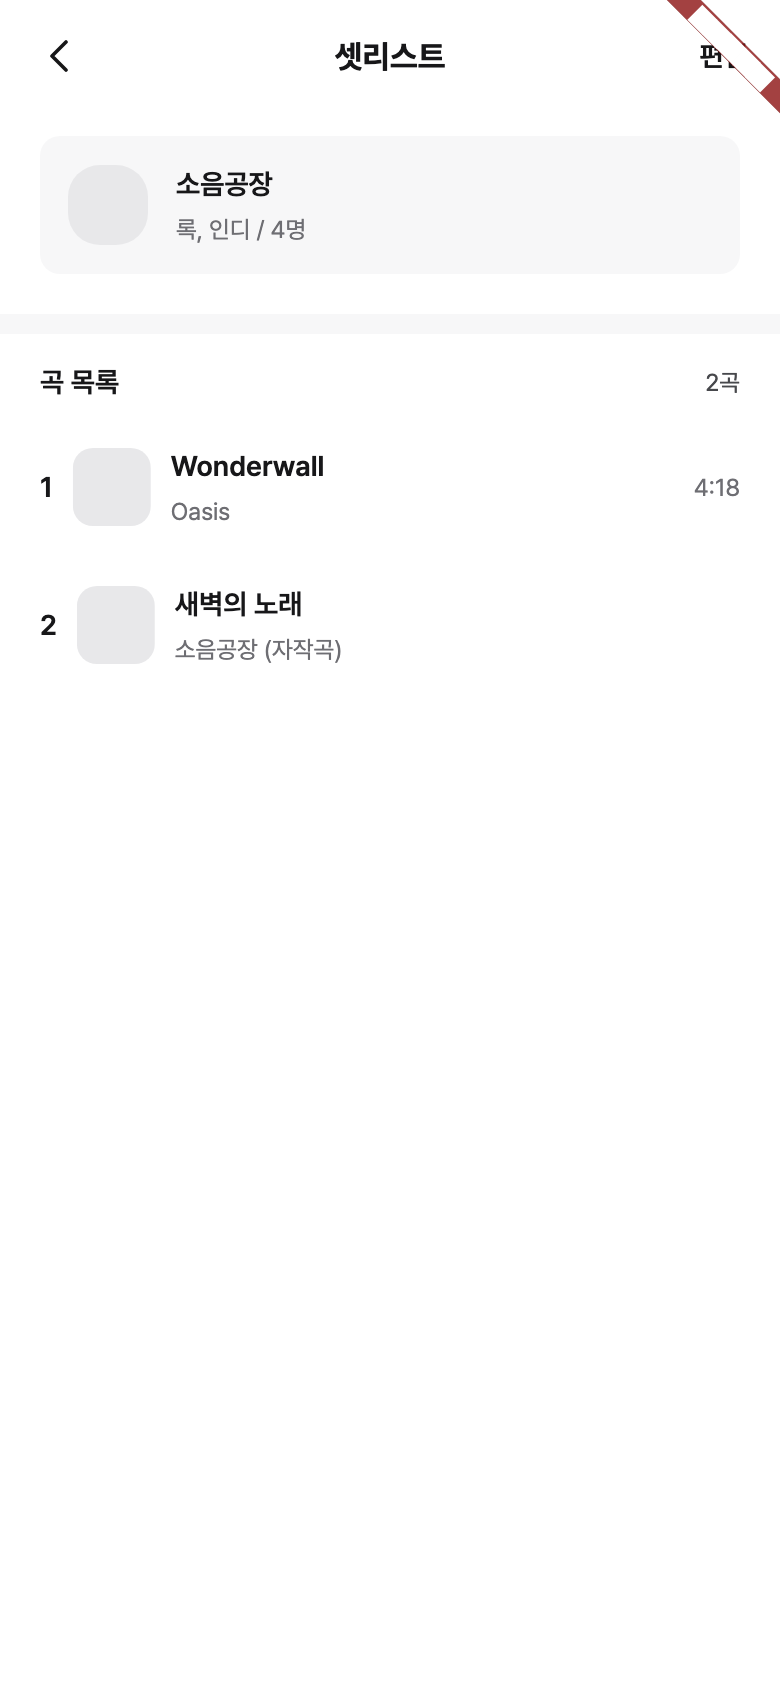
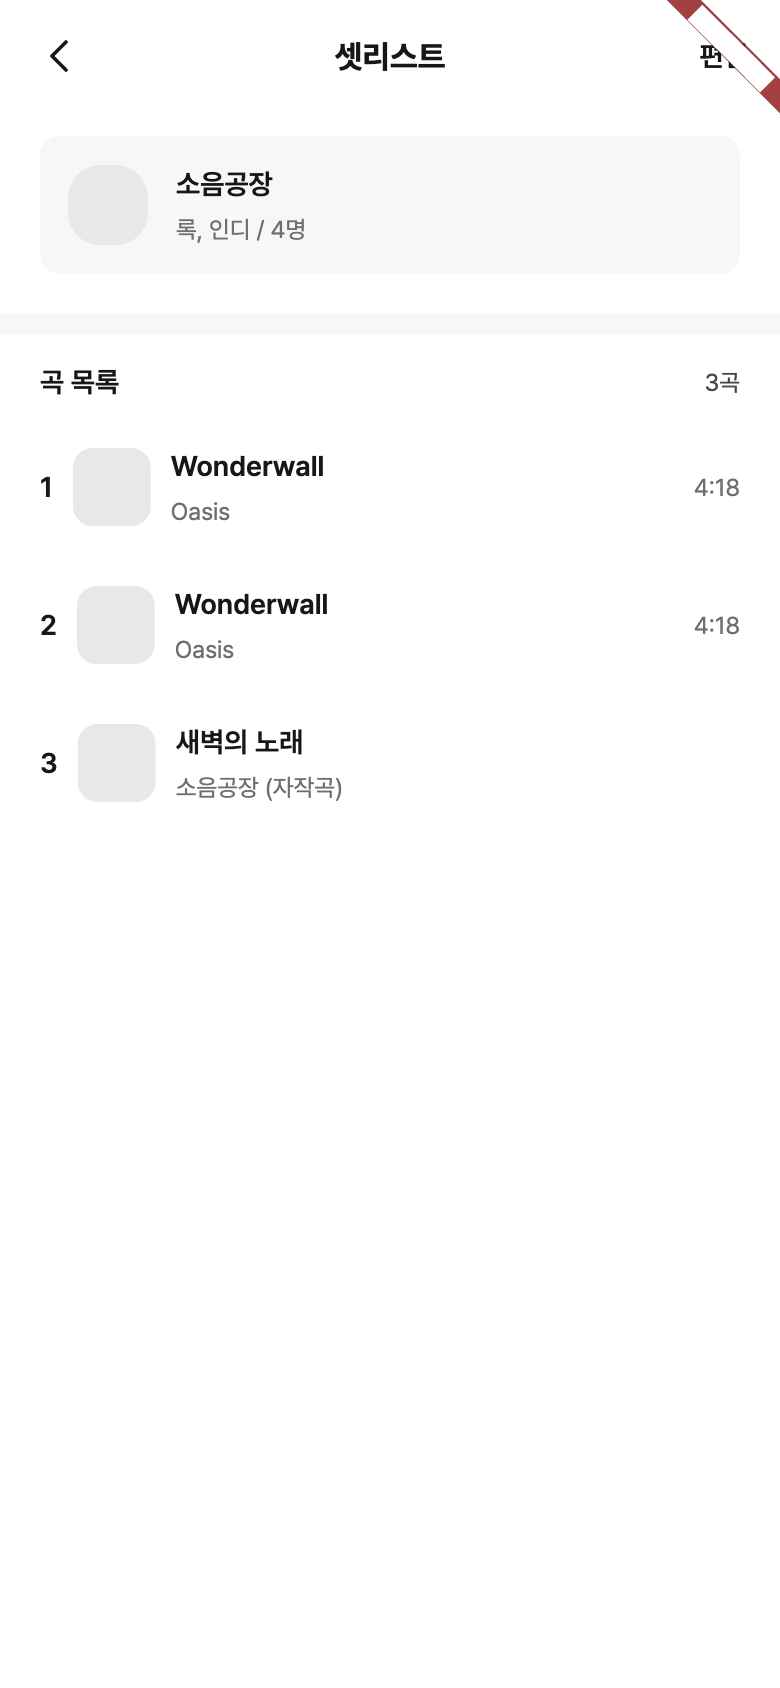
fix(JECT-165): 같은 곡 반복 추가와 화면 읽기 편집 동작을 지원한다

Changed region(s): [[0.2154, 0.3389, 0.4308, 0.4005], [0.2154, 0.4313, 0.4308, 0.4929], [0.0615, 0.4313, 0.0923, 0.4621]]

diff --git a/apps/mobile/test/app/lineup_routes_test.dart b/apps/mobile/test/app/lineup_routes_test.dart
@@ -1,6 +1,7 @@
 import 'dart:io';
 import 'dart:ui' as ui;
 
+import 'package:flutter/gestures.dart' show kLongPressTimeout;
 import 'package:flutter/material.dart';
 import 'package:flutter/rendering.dart';
 import 'package:flutter/services.dart';
@@ -148,12 +149,21 @@ void main() {
     }
 
     final repo = container.read(lineupRepositoryProvider);
+    await tap('lineup_position_1');
+    await _capture(tester, 'position');
+    await tap('lineupSlot_picker');
+    await tap('lineupSlot_option_3');
+    await _capture(tester, 'picker');
+    await tap('lineupSlot_load');
+    await _capture(tester, 'selection');
+    await tap('lineupSlot_back');
+    expect((await repo.getLineup(1)).teams.first.band.bandId, 3);
     final handle = key('lineup_dragHandle_3');
     final distance =
         tester.getCenter(key('lineup_dragHandle_7')).dy -
         tester.getCenter(handle).dy;
     final drag = await tester.startGesture(tester.getCenter(handle));
-    await tester.pump();
+    await tester.pump(kLongPressTimeout);
     for (var step = 0; step < 10; step++) {
       await drag.moveBy(Offset(0, (distance + 12) / 10));
       await tester.pump();
@@ -176,6 +186,13 @@ void main() {
     await tester.pumpAndSettle();
     await _capture(tester, 'search');
     await tap('songAdd_resultAdd_0');
+    final again = tester.getSemantics(key('songAdd_resultAdd_0'));
+    expect(again.getSemanticsData().hasAction(ui.SemanticsAction.tap), isTrue);
+    tester.binding.pipelineOwner.semanticsOwner!.performAction(
+      again.id,
+      ui.SemanticsAction.tap,
+    );
+    await tester.pumpAndSettle();
     await tester.enterText(field, '새벽의 노래');
     tester.view.physicalSize = const Size(320, 680);
     tester.view.viewInsets = const FakeViewPadding(bottom: 260);
@@ -194,6 +211,7 @@ void main() {
     expect((await repo.getSetlist(1, 3)).songs, isEmpty);
     await tap('setlist_done');
     expect((await repo.getSetlist(1, 3)).songs.map((s) => s.songTitle), [
+      'Wonderwall',
       'Wonderwall',
       '새벽의 노래',
     ]);

diff --git a/apps/mobile/lib/features/lineup/presentation/widgets/song_add_sheet.dart b/apps/mobile/lib/features/lineup/presentation/widgets/song_add_sheet.dart
@@ -232,7 +232,7 @@ class _SearchNotice extends StatelessWidget {
 ///
 /// 공통 `AppTag`보다 글자(12)·여백(6·12)이 커서 여기서 그린다. 다크 시안의 보라(추가)·회색(추가됨)은
 /// 밝은 테마에서 라인업 "주최" 태그와 같은 진한 태그 · 회색 태그로 옮겼다.
-/// "추가됨"은 편집 목록에 이미 있다는 표시라 누를 수 없다 (자작곡·불러온 목록의 같은 곡은 그대로 둔다).
+/// "추가됨"은 포함 여부만 알린다. 같은 검색 곡도 반복 연주할 수 있다.
 class _AddTag extends StatelessWidget {
   const _AddTag({super.key, required this.added, required this.onTap});
 
@@ -250,12 +250,12 @@ class _AddTag extends StatelessWidget {
     final label = added ? '추가됨' : '추가';
     return Semantics(
       button: true,
-      enabled: !added,
-      label: label,
+      label: added ? '한 번 더 추가' : label,
+      onTap: onTap,
       excludeSemantics: true,
       child: GestureDetector(
         behavior: HitTestBehavior.opaque,
-        onTap: added ? null : onTap,
+        onTap: onTap,
         child: SizedBox(
           height: _touchHeight,
           child: Center(

diff --git a/apps/mobile/lib/features/lineup/presentation/views/setlist_view.dart b/apps/mobile/lib/features/lineup/presentation/views/setlist_view.dart
@@ -434,6 +434,7 @@ class _SongEditRow extends StatelessWidget {
         button: true,
         enabled: enabled,
         label: '${song.songTitle} 빼기',
+        onTap: enabled ? onRemove : null,
         excludeSemantics: true,
         child: GestureDetector(
           key: SetlistView.removeKey(index),
@@ -533,6 +534,7 @@ class _TopBarTextButton extends StatelessWidget {
       button: true,
       enabled: enabled,
       label: label,
+      onTap: onPressed,
       excludeSemantics: true,
       child: InkWell(
         onTap: onPressed,
